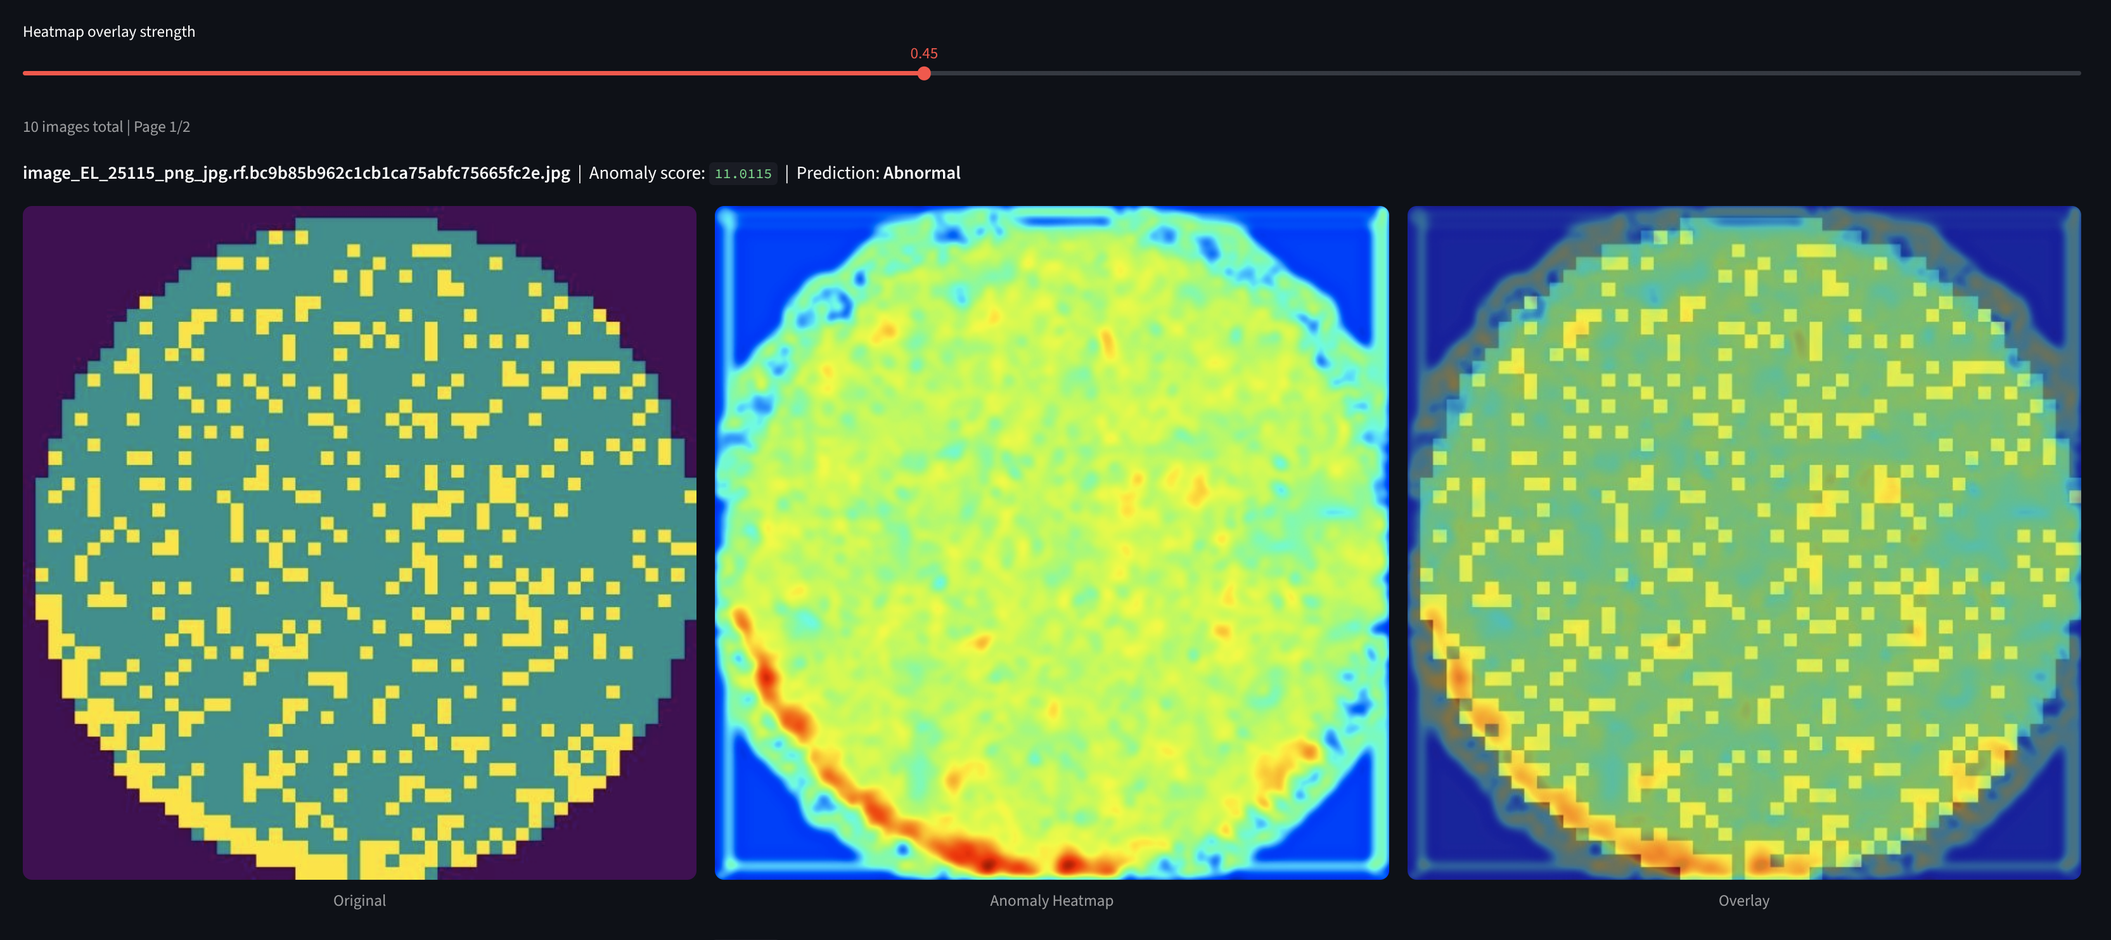
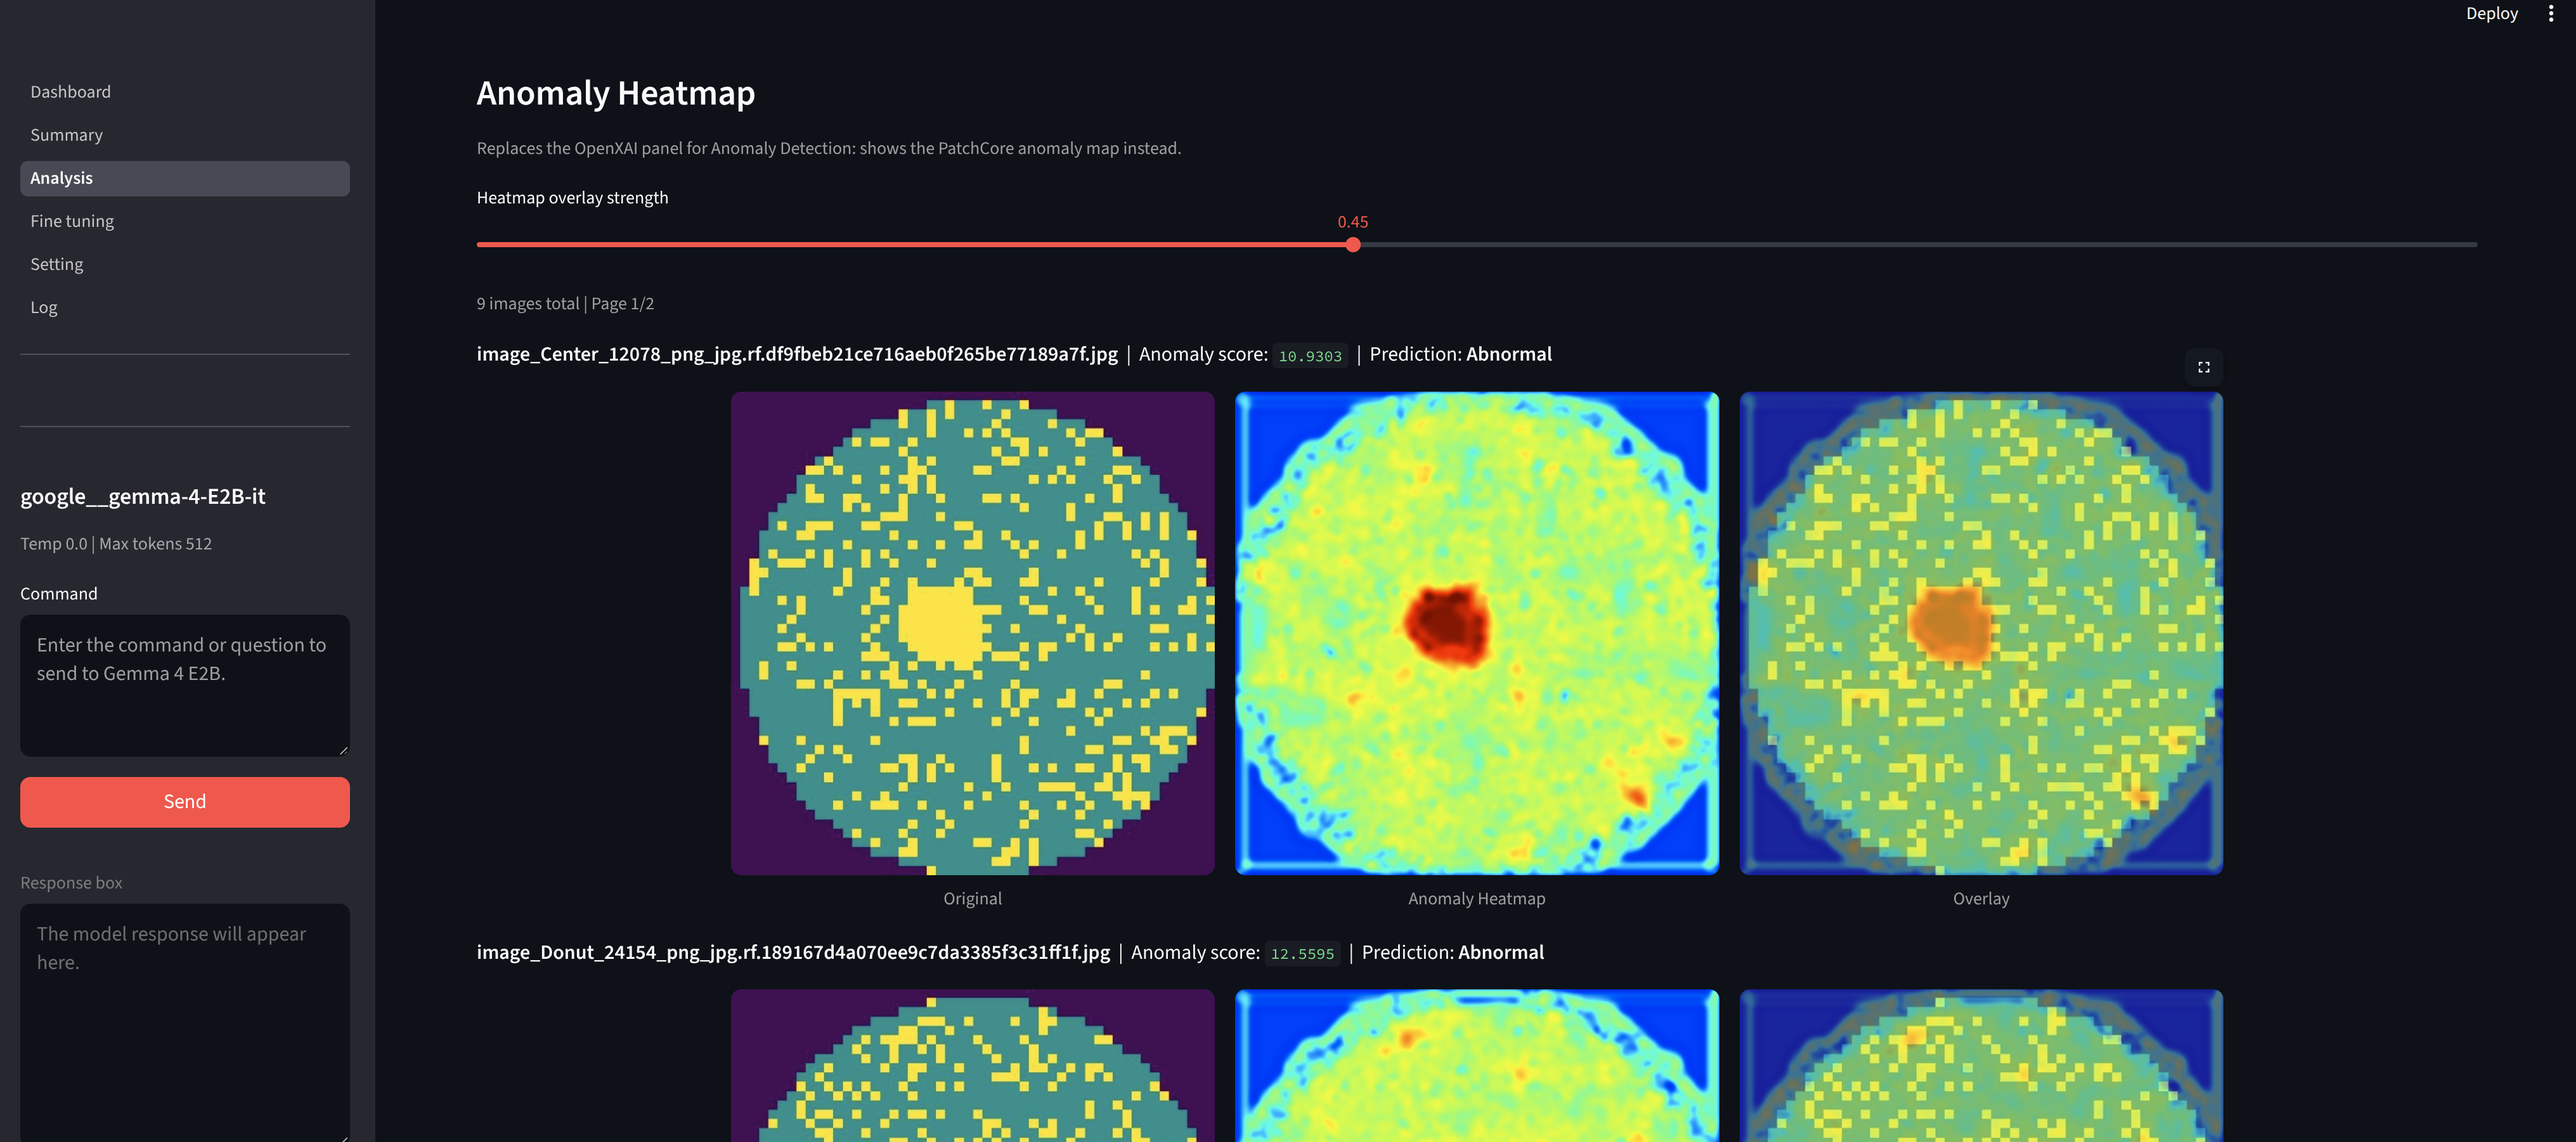
image update

diff --git a/README.md b/README.md
@@ -8,7 +8,7 @@ A Streamlit-based application for semiconductor inspection, featuring image clas
 
 <p align="center">
   <a href="https://youtu.be/LEap37YUmlg">
-    <img src="assets/manufacturing_inspection.png" width="700"/>
+    <img src="assets/Analysis_AD.png" width="700"/>
   </a>
 </p>
 
